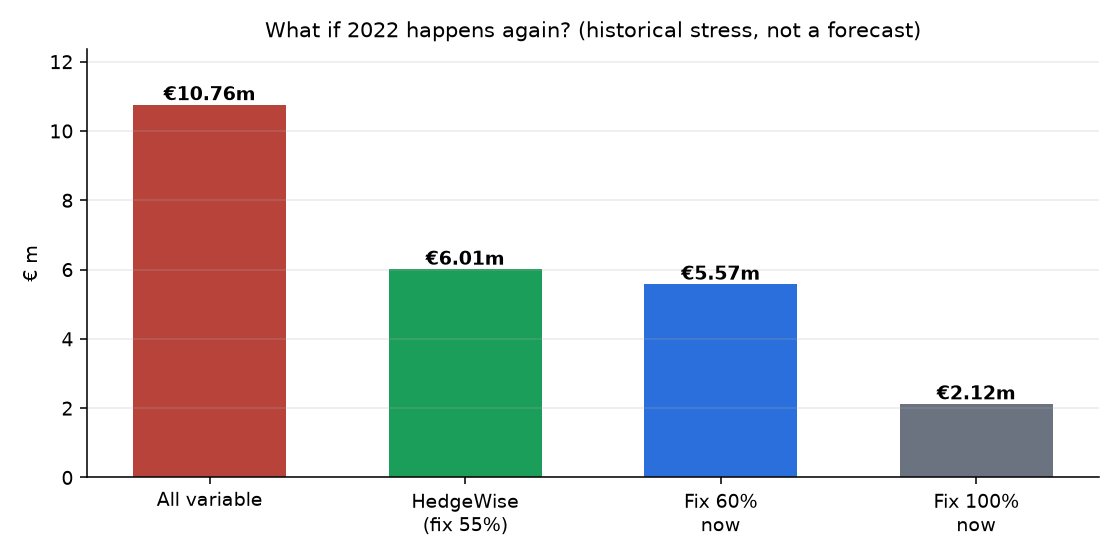
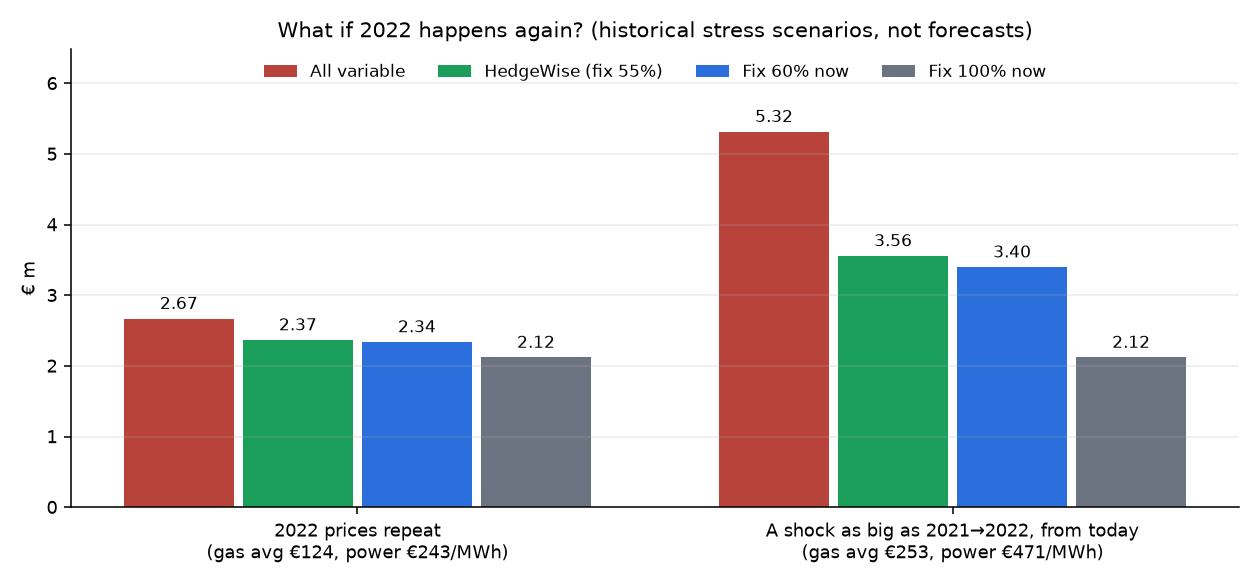
Stress test: two labelled scenarios (2022 prices repeat; 2021->2022-sized shock from today with 2022 monthly shape) with implied prices in app, PDF, CLI; tests; RESULTS

diff --git a/hedgewise_model.py b/hedgewise_model.py
@@ -583,83 +583,130 @@ def policy_plan(a: Analysis, months_ahead: int, prev_target: float | None = None
 
 
 # --------------------------------------------------------------------------------------------
-# Historical stress scenario: "what if 2022 happens again?"  (NOT a forecast)
+# Historical stress scenarios: "what if 2022 happens again?"  (NOT forecasts)
 # --------------------------------------------------------------------------------------------
-STRESS_BASE = ("2021-01-01", "2021-06-30")   # the calm before the crisis
 STRESS_YEAR = 2022
+STRESS_PREV_YEAR = 2021
+STRESS_KEYS = ["All variable", "HedgeWise", "Fix 60% now", "Fix 100% now"]
+STRESS_LABELS = {
+    "repeat": {"en": "2022 prices repeat", "nl": "Prijzen van 2022 herhalen zich"},
+    "shock": {"en": "A shock as big as 2021→2022, from today", "nl": "Een schok zo groot als 2021→2022, vanaf nu"},
+}
+
+
+def _stress_prices(df: pd.DataFrame) -> dict:
+    """Per commodity: realised 2022 monthly averages (calendar months 1-12) and the 2021 / 2022 annual averages."""
+    out = {}
+    for c in ("gas", "power"):
+        y22 = df.loc[f"{STRESS_YEAR}-01-01":f"{STRESS_YEAR}-12-31", c]
+        y21 = df.loc[f"{STRESS_PREV_YEAR}-01-01":f"{STRESS_PREV_YEAR}-12-31", c]
+        monthly = y22.groupby(y22.index.month).mean().reindex(range(1, 13))
+        if monthly.isna().any() or y21.empty:
+            raise ValueError(f"price data for all of {STRESS_PREV_YEAR} and {STRESS_YEAR} is needed for the stress test")
+        out[c] = {"monthly_2022": monthly.values, "avg_2021": float(y21.mean()), "avg_2022": float(y22.mean())}
+    return out
 
 
 def stress_test(a: Analysis, df: pd.DataFrame) -> dict:
-    """Replay the 2022 shock on today's price level.
+    """Two historical stress scenarios for next year's bill (NOT forecasts):
 
-    For gas and power separately: ratio[m] = realised average price in calendar month m of 2022 divided by the
-    average price of H1 2021. The stressed price for delivery month m = today's fixed price x ratio[m].
-    Bills for: all variable, the HedgeWise recommendation, fix 100% now, fix 60% now; the hedged part is
-    priced at today's fixed price. A historical stress scenario, not a forecast."""
+    (a) "repeat": the realised 2022 monthly gas and power prices exactly as they were.
+    (b) "shock" : a shock as big as 2021->2022, starting from today's level:
+                  price[m] = today's fixed price x (2022 annual avg / 2021 annual avg) x (2022 month m / 2022 annual avg)
+                  i.e. the 2022 monthly shape, scaled so the year averages fixed price x multiplier.
+    For each: bills for all variable, the HedgeWise recommendation, fix 60% now and fix 100% now; the hedged part
+    is priced at today's fixed price. Also the implied (volume-weighted) average gas and power price, so a reader
+    can sanity-check the scenario."""
     ds = a.delivery_start
-    order = [(ds + pd.DateOffset(months=i)).month for i in range(12)]           # calendar month per delivery month
-    vol = {"gas": a.company.gas_mwh[[m - 1 for m in order]], "power": a.company.power_mwh[[m - 1 for m in order]]}
-    out, ratios, stressed_avg = {}, {}, {}
-    var_cost, fix_cost = {}, {}
-    for c in ("gas", "power"):
-        base = df.loc[STRESS_BASE[0]:STRESS_BASE[1], c].mean()
-        y = df.loc[f"{STRESS_YEAR}-01-01":f"{STRESS_YEAR}-12-31", c]
-        monthly = y.groupby(y.index.month).mean().reindex(range(1, 13))
-        if not np.isfinite(base) or monthly.isna().any():
-            raise ValueError("price data for H1 2021 and all of 2022 is needed for the stress test")
-        r = (monthly / base).values
-        ratios[c] = r
-        stressed = a.fwd_now[c] * r[[m - 1 for m in order]]
-        var_cost[c] = float(vol[c] @ stressed)
-        fix_cost[c] = float(vol[c].sum() * a.fwd_now[c])
-        stressed_avg[c] = float(vol[c] @ stressed / vol[c].sum()) if vol[c].sum() else float(stressed.mean())
-
-    def bill(hg, hp):
-        return ((1 - hg) * var_cost["gas"] + hg * fix_cost["gas"]) + ((1 - hp) * var_cost["power"] + hp * fix_cost["power"])
-
+    cal = [(ds + pd.DateOffset(months=i)).month - 1 for i in range(12)]   # calendar-month index per delivery month
+    vol = {"gas": a.company.gas_mwh[cal], "power": a.company.power_mwh[cal]}
+    hp = _stress_prices(df)
     rec = a.recommendation
-    out = {"All variable": bill(0, 0), "HedgeWise": bill(rec["hedge_gas"], rec["hedge_power"]),
-           "Fix 100% now": bill(1, 1), "Fix 60% now": bill(0.6, 0.6)}
-    w = {c: float(vol[c] @ ratios[c][[m - 1 for m in order]] / vol[c].sum()) if vol[c].sum() else float("nan")
-         for c in vol}
-    return {**out, "multiplier": w, "stressed_avg_price": stressed_avg, "fixed_price": dict(a.fwd_now),
-            "hedge": rec["hedge_gas"], "label": f"{STRESS_YEAR} repeat (historical stress, not a forecast)"}
+    scenarios = []
+    for key in ("repeat", "shock"):
+        var_cost, fix_cost, avg, mult = {}, {}, {}, {}
+        for c in ("gas", "power"):
+            p22 = hp[c]["monthly_2022"][cal]
+            if key == "repeat":
+                prices = p22
+                mult[c] = None
+            else:
+                mult[c] = hp[c]["avg_2022"] / hp[c]["avg_2021"]
+                prices = a.fwd_now[c] * mult[c] * p22 / hp[c]["avg_2022"]
+            var_cost[c] = float(vol[c] @ prices)
+            fix_cost[c] = float(vol[c].sum() * a.fwd_now[c])
+            avg[c] = var_cost[c] / vol[c].sum() if vol[c].sum() else float(np.mean(prices))
+
+        def bill(h):
+            return sum((1 - h) * var_cost[c] + h * fix_cost[c] for c in ("gas", "power"))
+
+        bills = {"All variable": bill(0.0), "HedgeWise": bill(rec["hedge_gas"]),
+                 "Fix 60% now": bill(0.6), "Fix 100% now": bill(1.0)}
+        scenarios.append({"key": key, "label": STRESS_LABELS[key], "bills": bills, "avg_price": avg,
+                          "multiplier": mult})
+    return {"scenarios": scenarios, "hedge": rec["hedge_gas"], "fixed_price": dict(a.fwd_now),
+            "note": "historical stress scenarios, not forecasts"}
+
+
+def _eur_m(x: float, lang: str) -> str:
+    return f"€{x/1e6:.2f}m" if lang == "en" else f"€ {x/1e6:.2f} mln".replace(".", ",")
 
 
 def stress_sentence(s: dict, lang: str = "en") -> str:
-    g, p = s["multiplier"]["gas"], s["multiplier"]["power"]
-    if lang == "nl":
-        nl = lambda x: f"{x:.2f}".replace(".", ",")
-        gx, px = f"{g:.1f}".replace(".", ","), f"{p:.1f}".replace(".", ",")
-        return (f"Historisch stressscenario, geen voorspelling: als de prijzen vanaf vandaag net zo stijgen als van "
-                f"begin 2021 naar 2022 (gas ×{gx}, stroom ×{px}), kost variabel blijven "
-                f"€ {nl(s['All variable']/1e6)} mln, het HedgeWise-advies € {nl(s['HedgeWise']/1e6)} mln en "
-                f"100% vastzetten € {nl(s['Fix 100% now']/1e6)} mln.")
-    f = lambda x: f"€{x/1e6:.2f}m"
-    return (f"Historical stress scenario, not a forecast: if prices rose from today's level as much as they did from "
-            f"early 2021 to 2022 (gas ×{g:.1f}, power ×{p:.1f}), staying variable would cost {f(s['All variable'])}, "
-            f"the HedgeWise plan {f(s['HedgeWise'])} and fixing 100% now {f(s['Fix 100% now'])}.")
+    """One sentence per scenario, with the implied average prices."""
+    out = []
+    for sc in s["scenarios"]:
+        b, p = sc["bills"], sc["avg_price"]
+        if lang == "nl":
+            pr = f"gas gem. € {p['gas']:.0f}, stroom € {p['power']:.0f} per MWh"
+            out.append(f"{sc['label']['nl']} ({pr}): variabel {_eur_m(b['All variable'], lang)}, "
+                       f"HedgeWise-advies {_eur_m(b['HedgeWise'], lang)}, 100% vast {_eur_m(b['Fix 100% now'], lang)}.")
+        else:
+            pr = f"gas avg €{p['gas']:.0f}, power €{p['power']:.0f} per MWh"
+            out.append(f"{sc['label']['en']} ({pr}): all variable {_eur_m(b['All variable'], lang)}, "
+                       f"HedgeWise plan {_eur_m(b['HedgeWise'], lang)}, fix 100% {_eur_m(b['Fix 100% now'], lang)}.")
+    tail = ("Historical stress scenarios, not forecasts." if lang == "en"
+            else "Historische stressscenario's, geen voorspellingen.")
+    return " ".join(out) + " " + tail
 
 
-def plot_stress(s: dict, path=None, ax=None, lang: str = "en"):
+def plot_stress(s: dict, path=None, ax=None, lang: str = "en", compact: bool = False):
+    """Grouped bars: one group per scenario, one bar per strategy. compact=True for the PDF (smaller text)."""
     import matplotlib
     matplotlib.use("Agg")
     import matplotlib.pyplot as plt
     own = ax is None
     if own:
-        fig, ax = plt.subplots(figsize=(8, 4))
-    keys = ["All variable", "HedgeWise", "Fix 60% now", "Fix 100% now"]
-    lbl = {"en": ["All variable", f"HedgeWise\n(fix {s['hedge']:.0%})", "Fix 60%\nnow", "Fix 100%\nnow"],
-           "nl": ["Alles variabel", f"HedgeWise\n({s['hedge']:.0%} vast)", "60% vast\nnu", "100% vast\nnu"]}[lang]
-    vals = [s[k] / 1e6 for k in keys]
-    bars = ax.bar(lbl, vals, color=["#b8433a", "#1b9e5a", "#2a6fdb", "#6b7280"], width=0.6)
-    for b, v in zip(bars, vals):
-        txt = f"€{v:.2f}m" if lang == "en" else f"€ {v:.2f} mln".replace(".", ",")
-        ax.text(b.get_x() + b.get_width() / 2, v, txt, ha="center", va="bottom", fontsize=10, weight="bold")
-    ax.set_ylim(0, max(vals) * 1.15)
-    ax.set_ylabel("€ m" if lang == "en" else "€ mln")
-    ax.set_title("What if 2022 happens again? (historical stress, not a forecast)" if lang == "en"
-                 else "Wat als 2022 zich herhaalt? (historisch stressscenario, geen voorspelling)", fontsize=11)
+        fig, ax = plt.subplots(figsize=(9, 4.2))
+    names = {"en": ["All variable", f"HedgeWise (fix {s['hedge']:.0%})", "Fix 60% now", "Fix 100% now"],
+             "nl": ["Alles variabel", f"HedgeWise ({s['hedge']:.0%} vast)", "60% vast nu", "100% vast nu"]}[lang]
+    colors = ["#b8433a", "#1b9e5a", "#2a6fdb", "#6b7280"]
+    scs = s["scenarios"]
+    w = 0.2
+    fs = 7 if compact else 9
+    top = max(v for sc in scs for v in sc["bills"].values()) / 1e6
+    for j, key in enumerate(STRESS_KEYS):
+        xs = np.arange(len(scs)) + (j - 1.5) * w
+        vals = [sc["bills"][key] / 1e6 for sc in scs]
+        ax.bar(xs, vals, w * 0.92, color=colors[j], label=names[j])
+        for x, v in zip(xs, vals):
+            t = f"{v:.2f}" if lang == "en" else f"{v:.2f}".replace(".", ",")
+            ax.text(x, v + top * 0.015, t, ha="center", va="bottom", fontsize=fs - 0.5)
+    ticks = []
+    for sc in scs:
+        p = sc["avg_price"]
+        if lang == "en":
+            ticks.append(f"{sc['label']['en']}\n(gas avg €{p['gas']:.0f}, power €{p['power']:.0f}/MWh)")
+        else:
+            ticks.append(f"{sc['label']['nl']}\n(gas gem. € {p['gas']:.0f}, stroom € {p['power']:.0f}/MWh)")
+    ax.set_xticks(np.arange(len(scs)), ticks, fontsize=fs)
+    ax.set_ylim(0, top * 1.22)
+    ax.set_ylabel("€ m" if lang == "en" else "€ mln", fontsize=fs)
+    ax.tick_params(axis="y", labelsize=fs)
+    ax.legend(fontsize=fs - 0.5, frameon=False, ncol=4 if not compact else 2, loc="upper center")
+    if not compact:
+        ax.set_title("What if 2022 happens again? (historical stress scenarios, not forecasts)" if lang == "en"
+                     else "Wat als 2022 zich herhaalt? (historische stressscenario's, geen voorspellingen)", fontsize=11)
     ax.spines[["top", "right"]].set_visible(False)
     ax.grid(axis="y", alpha=0.25)
     if own:
@@ -899,7 +946,13 @@ def main(argv=None):
     print(recommendation_text(a))
     if not args.demo:
         st_ = stress_test(a, df)
-        print("\n" + stress_sentence(st_))
+        print("\nStress scenarios (historical, NOT forecasts), EUR k:")
+        for sc in st_["scenarios"]:
+            p = sc["avg_price"]
+            mult = (f", multiplier gas x{sc['multiplier']['gas']:.2f}, power x{sc['multiplier']['power']:.2f}"
+                    if sc["multiplier"]["gas"] else "")
+            print(f"  {sc['label']['en']}: implied average price gas {p['gas']:.0f}, power {p['power']:.0f} EUR/MWh{mult}")
+            print("    " + " | ".join(f"{k} {v/1e3:,.0f}" for k, v in sc["bills"].items()))
     tag = ("demo_" if args.demo else "") + f"{m.as_of:%Y-%m-%d}"
     plot_analysis(a, OUT / f"analysis_{tag}.png")
     plot_fit(m, OUT / f"fit_{tag}.png")

diff --git a/report.py b/report.py
@@ -54,9 +54,10 @@ TEXT = {
         "rec_effect": "With this plan: expected bill {e}, bad case {es} (instead of {es0}).",
         "tradeoff": "Each extra 10% fixed costs about <b>{a}</b> on average and removes about <b>{b}</b> "
                     "from the bad case.",
-        "stress": "<b>What if 2022 happens again?</b> If prices rose from today's level as much as they did from "
-                  "early 2021 to 2022, staying variable would cost {var}; with our recommendation {hw}. "
-                  "(A historical stress scenario, not a forecast.)",
+        "stress_h": "What if 2022 happens again?",
+        "stress_sc": "<b>{label}</b> (gas avg {gas}, power {power} per MWh): staying variable {var}; "
+                     "with our recommendation {hw}.",
+        "stress_note": "Historical stress scenarios, not forecasts. The fixed share is priced at today's fixed price.",
         "footer": "<b>HedgeWise</b> · Assumptions: commodity cost only (no network tariffs, energy tax or supplier "
                   "margin); {fixed}; volumes are "
                   "taken as known. Scenarios come from a statistical model of past prices and can miss events "
@@ -87,9 +88,10 @@ TEXT = {
         "rec_effect": "Met dit plan: verwachte rekening {e}, slecht scenario {es} (in plaats van {es0}).",
         "tradeoff": "Elke extra 10% vastzetten kost gemiddeld ongeveer <b>{a}</b> en haalt ongeveer <b>{b}</b> "
                     "van het slechte scenario af.",
-        "stress": "<b>Wat als 2022 zich herhaalt?</b> Als de prijzen vanaf vandaag net zo stijgen als van begin "
-                  "2021 naar 2022, kost variabel blijven {var}; met ons advies {hw}. "
-                  "(Een historisch stressscenario, geen voorspelling.)",
+        "stress_h": "Wat als 2022 zich herhaalt?",
+        "stress_sc": "<b>{label}</b> (gas gem. {gas}, stroom {power} per MWh): variabel blijven {var}; "
+                     "met ons advies {hw}.",
+        "stress_note": "Historische stressscenario's, geen voorspellingen. Het vaste deel tegen de vaste prijs van nu.",
         "footer": "<b>HedgeWise</b> · Aannames: alleen de kosten van de energie zelf (geen netbeheerkosten, "
                   "energiebelasting of leveranciersmarge); {fixed}; het verbruik wordt als bekend aangenomen. De scenario's komen uit een "
                   "statistisch model van prijzen uit het verleden en kunnen gebeurtenissen missen die nog nooit "
@@ -127,6 +129,10 @@ def money(x: float, lang: str) -> str:
     if lang == "en":
         return f"€{_num(x / 1e3, lang, 0)}k"
     return f"€ {_num(round(x, -3), lang, 0)}"
+
+
+def _eur0(x: float, lang: str) -> str:
+    return f"€{x:,.0f}" if lang == "en" else f"€ {_num(x, lang)}"
 
 
 def pct(x: float) -> str:
@@ -239,8 +245,13 @@ def make_report(a: hw.Analysis, path, lang: str = "en", stress: dict | None = No
                  Paragraph(T["tradeoff"].format(a=money(d_e, lang), b=money(d_es, lang)), ss["body"])]
     if stress:
         rec_parts.append(Spacer(1, 3))
-        rec_parts.append(Paragraph(T["stress"].format(var=money(stress["All variable"], lang),
-                                                      hw=money(stress["HedgeWise"], lang)), ss["body"]))
+        rec_parts.append(Paragraph(f"<b>{T['stress_h']}</b>", ss["body"]))
+        for sc in stress["scenarios"]:
+            p = sc["avg_price"]
+            rec_parts.append(Paragraph(T["stress_sc"].format(
+                label=sc["label"][lang], gas=_eur0(p["gas"], lang), power=_eur0(p["power"], lang),
+                var=money(sc["bills"]["All variable"], lang), hw=money(sc["bills"]["HedgeWise"], lang)), ss["body"]))
+        rec_parts.append(Paragraph(T["stress_note"], ss["small"]))
     box = Table([[rec_parts]], colWidths=[W])
     box.setStyle(TableStyle([("BACKGROUND", (0, 0), (-1, -1), SOFT),
                              ("LINEBEFORE", (0, 0), (0, -1), 4, BRAND),

diff --git a/tests/test_stress.py b/tests/test_stress.py
@@ -1,4 +1,4 @@
-"""Sanity checks for the 'what if 2022 happens again' stress test."""
+"""Sanity checks for the two historical stress scenarios (2022 repeat; 2021->2022-sized shock from today)."""
 import sys
 from pathlib import Path
 
@@ -17,21 +17,47 @@ def setup():
     return df, a, hw.stress_test(a, df)
 
 
-def test_fix_100_is_todays_fixed_price(setup):
+def _sc(s, key):
+    return next(x for x in s["scenarios"] if x["key"] == key)
+
+
+def test_repeat_uses_realised_2022_prices(setup):
+    df, a, s = setup
+    rep = _sc(s, "repeat")
+    y = df.loc["2022", "gas"]
+    monthly = y.groupby(y.index.month).mean().values
+    v = a.company.gas_mwh
+    assert rep["avg_price"]["gas"] == pytest.approx(float(v @ monthly / v.sum()))
+    assert 100 < rep["avg_price"]["gas"] < 150 and 200 < rep["avg_price"]["power"] < 290   # 2022 levels
+
+
+def test_shock_multiplier_is_2022_over_2021_annual_average(setup):
+    df, a, s = setup
+    sh = _sc(s, "shock")
+    for c in ("gas", "power"):
+        expect = df.loc["2022", c].mean() / df.loc["2021", c].mean()
+        assert sh["multiplier"][c] == pytest.approx(expect)
+    # with a flat consumption profile the implied average would be exactly fixed price x multiplier;
+    # with the real (seasonal) profile it stays within 15% of that
+    for c in ("gas", "power"):
+        assert sh["avg_price"][c] == pytest.approx(a.fwd_now[c] * sh["multiplier"][c], rel=0.15)
+
+
+def test_bills_consistent(setup):
     _, a, s = setup
     fixed = a.company.gas_mwh.sum() * a.fwd_now["gas"] + a.company.power_mwh.sum() * a.fwd_now["power"]
-    assert s["Fix 100% now"] == pytest.approx(fixed)
+    h = s["hedge"]
+    for sc in s["scenarios"]:
+        b = sc["bills"]
+        assert b["Fix 100% now"] == pytest.approx(fixed)
+        assert b["HedgeWise"] == pytest.approx((1 - h) * b["All variable"] + h * b["Fix 100% now"])
+        assert b["Fix 60% now"] == pytest.approx(0.4 * b["All variable"] + 0.6 * b["Fix 100% now"])
+    sh = _sc(s, "shock")["bills"]
+    assert sh["All variable"] > sh["Fix 60% now"] > sh["Fix 100% now"]      # a shock raises prices
 
 
-def test_ordering_and_linearity(setup):
-    _, a, s = setup
-    assert s["multiplier"]["gas"] > 1 and s["multiplier"]["power"] > 1       # 2022 was far above H1 2021
-    assert s["All variable"] > s["Fix 60% now"] > s["Fix 100% now"]
-    h = a.recommendation["hedge_gas"]
-    assert s["HedgeWise"] == pytest.approx((1 - h) * s["All variable"] + h * s["Fix 100% now"])
-
-
-def test_sentences_say_not_a_forecast(setup):
+def test_sentences_say_not_a_forecast_and_show_prices(setup):
     _, _, s = setup
-    assert "not a forecast" in hw.stress_sentence(s, "en")
-    assert "geen voorspelling" in hw.stress_sentence(s, "nl")
+    en, nl = hw.stress_sentence(s, "en"), hw.stress_sentence(s, "nl")
+    assert "not forecasts" in en and "geen voorspellingen" in nl
+    assert "per MWh" in en and "per MWh" in nl

diff --git a/app.py b/app.py
@@ -158,9 +158,14 @@ if stress:
     hw.plot_stress(stress, sbuf)
     sc1, sc2 = st.columns([3, 2])
     sc1.image(sbuf.getvalue(), width="stretch")
-    sc2.markdown(hw.stress_sentence(stress))
-    sc2.caption("A historical stress scenario, not a forecast: the monthly 2022 prices divided by the H1 2021 average, "
-                "applied to today's fixed price. The hedged share is priced at today's fixed price.")
+    for sc in stress["scenarios"]:
+        b, p = sc["bills"], sc["avg_price"]
+        sc2.markdown(f"**{sc['label']['en']}** (gas avg €{p['gas']:.0f}, power €{p['power']:.0f}/MWh): "
+                     f"all variable €{b['All variable']/1e6:.2f}m · HedgeWise plan €{b['HedgeWise']/1e6:.2f}m · "
+                     f"fix 100% €{b['Fix 100% now']/1e6:.2f}m")
+    sc2.caption("Historical stress scenarios, not forecasts. (a) The realised 2022 monthly prices exactly as they were. "
+                "(b) Today's fixed price × (2022 average / 2021 average) per commodity, with the 2022 monthly shape. "
+                "The hedged share is priced at today's fixed price.")
 
 st.subheader("Strategy comparison (EUR k)")
 st.dataframe((a.table / 1e3).round(0).astype(int), width="stretch")

diff --git a/RESULTS.md b/RESULTS.md
@@ -76,19 +76,28 @@ The policy (`policy_plan` in `hedgewise_model.py`) takes the optimizer's target 
 
 Today's frontier: each extra 10% fixed costs about €10k on average and removes about €260k from the bad case. The exact recommended share moves by ±5 percentage points with the number of scenarios (2,000 in the dashboard vs 10,000 here).
 
-## Stress test: "what if 2022 happens again?" (new in v0.4)
+## Stress test: "what if 2022 happens again?" (two scenarios, revised)
 
-**A historical stress scenario, not a forecast.** For gas and power separately, take each month's realised 2022 average price divided by the H1 2021 average (gas ×5.7, power ×4.3 on a volume-weighted basis). Apply that ratio to today's fixed price. The hedged share is priced at today's fixed price. Hypothetical food processor, €m:
+**Historical stress scenarios, not forecasts.** The v0.4 scenario applied the 2022/H1-2021 ratios to today's level. That implied gas at about €550/MWh for a whole year, which isn't credible, so it has been replaced by two scenarios:
 
-| Decision date | All variable | HedgeWise plan | Fix 60% now | Fix 100% now |
-|---|---|---|---|---|
-| 30 Jun 2021 (plan: fix 70%) | 3.73 | 1.64 | 1.94 | 0.75 |
-| 30 Jun 2022 (plan: fix 90%) | 12.36 | 3.42 | 6.40 | 2.43 |
-| 23 Nov 2026, today (plan: fix 55%) | **10.76** | **6.01** | 5.57 | 2.12 |
+* **(a) 2022 prices repeat:** the realised 2022 monthly gas and power prices, exactly as they were.
+* **(b) A shock as big as 2021→2022, from today:** today's fixed price × (2022 annual average / 2021 annual average), with the 2022 monthly shape. The multipliers are gas ×2.81 (€47.1 → €132.1) and power ×2.35 (€103.0 → €241.9).
 
-* This is a deliberately extreme scenario: it replays the *whole* 2021→2022 jump on top of today's prices, which are already high (gas fixed price ≈ €96/MWh). Present it as "this is what 2022 did to companies; here's how much of it your plan absorbs", not as a likely outcome.
-* By construction, fixing more always looks better in this scenario (prices only go up). The frontier and the backtest show the other side: the cost when prices fall, as in 2023.
-* It appears in the dashboard (bar chart + one sentence), in the PDF report (one line), and in `output/stress_<date>.png`.
+The fixed share is priced at today's fixed price. "Implied avg" is the volume-weighted average price the company would pay if it stayed variable. Hypothetical food processor, €m:
+
+| Decision date (plan) | Scenario | Implied avg gas / power (€/MWh) | All variable | HedgeWise plan | Fix 60% now | Fix 100% now |
+|---|---|---|---|---|---|---|
+| 30 Jun 2021 (fix 70%) | 2022 repeats | 124 / 243 | 2.67 | 1.32 | 1.52 | 0.75 |
+| | shock from today | 80 / 183 | 1.86 | 1.08 | 1.19 | 0.75 |
+| 30 Jun 2022 (fix 90%) | 2022 repeats | 124 / 243 | 2.67 | 2.45 | 2.53 | 2.43 |
+| | shock from today | 295 / 527 | 6.10 | 2.80 | 3.90 | 2.43 |
+| **23 Nov 2026, today (fix 55%)** | 2022 repeats | 124 / 243 | **2.67** | **2.37** | 2.34 | 2.12 |
+| | shock from today | 253 / 471 | **5.32** | **3.56** | 3.40 | 2.12 |
+
+* Sanity check: as of 30 Jun 2021, "2022 repeats" is what actually happened, and its all-variable bill (€2.67m) equals the realised 2022 bill in the backtest.
+* Today's fixed prices (gas €96, power €199/MWh) are already close to the 2022 averages, so "2022 repeats" adds only about €0.65m to a variable bill. The shock scenario is the one that hurts: €5.32m variable vs €3.56m with the plan.
+* By construction, fixing more always looks better in a price-rise scenario. The frontier and the backtest show the other side (2023, when prices fell).
+* It appears in the dashboard, the PDF and the CLI (with the implied prices), and in `output/stress_<date>.png`.
 
 ## Calibration
 
